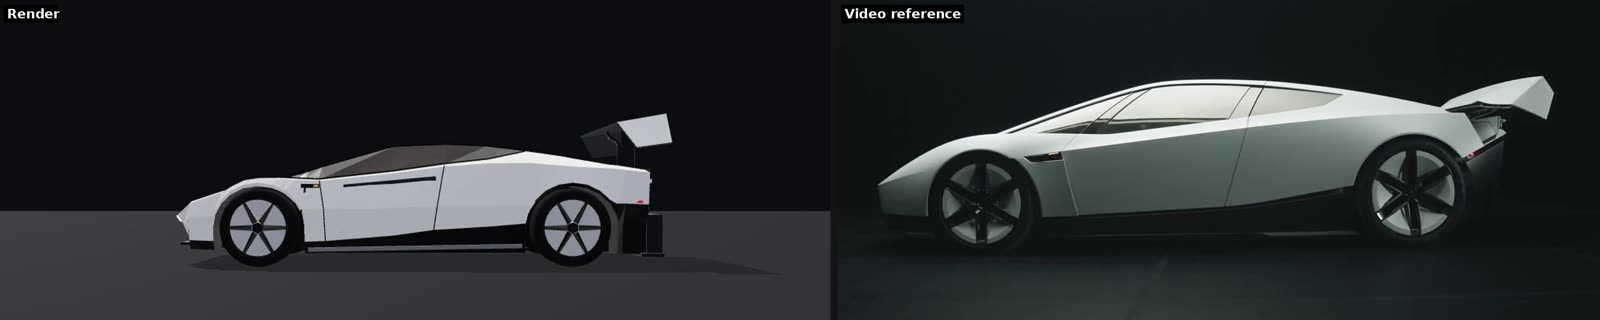
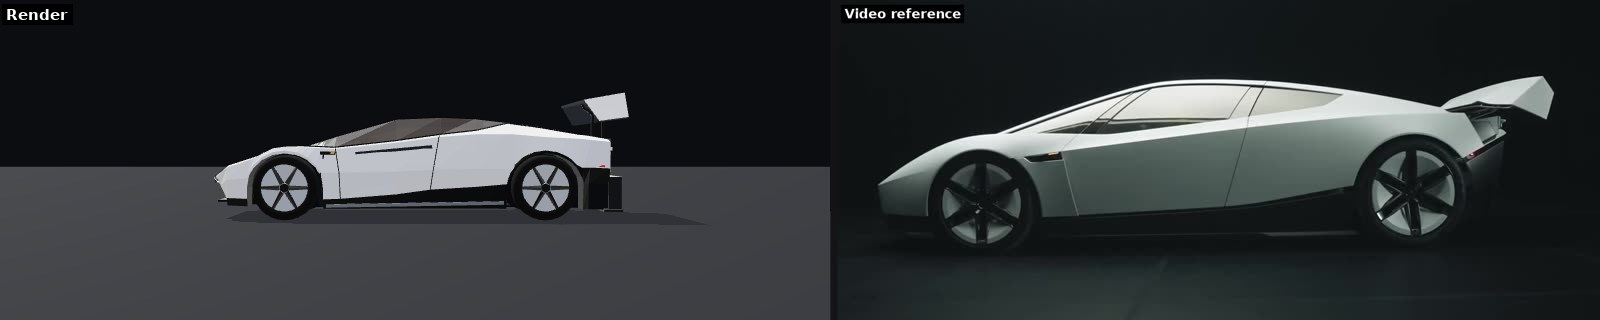
README: re-render front comparisons with the new headlamps, add a lamp close-up
01, 02 and 09 get fresh renders of the current model (reference halves
unchanged); 10 is new: the dropped headlamp panel beside the p1 video frame.

Changed region(s): [[0.0, 0.2812, 0.5312, 0.875], [0.0, 0.0312, 0.0625, 0.0625]]

diff --git a/README.md b/README.md
@@ -23,6 +23,10 @@ Each image puts the in-game render (left) beside a frame from the closer-look vi
 | ![Yoke and touchscreen](docs/compare/06-yoke-and-touchscreen.jpg) | ![Touchscreen UI](docs/compare/07-touchscreen-ui.jpg) |
 | Yoke and floating touchscreen | Live track-mode touchscreen |
 
+![Headlamp panel dropped](docs/compare/10-headlamp-panel-dropped.jpg)
+
+*Headlamps on (`L`): the triangular corner panel sinks at its rear edge and uncovers the lamp bar.*
+
 ![First-person cockpit](docs/compare/08-first-person-cockpit-in-game.jpg)
 
 *First-person camera (`C`): live speed and telemetry on the touchscreen.*
